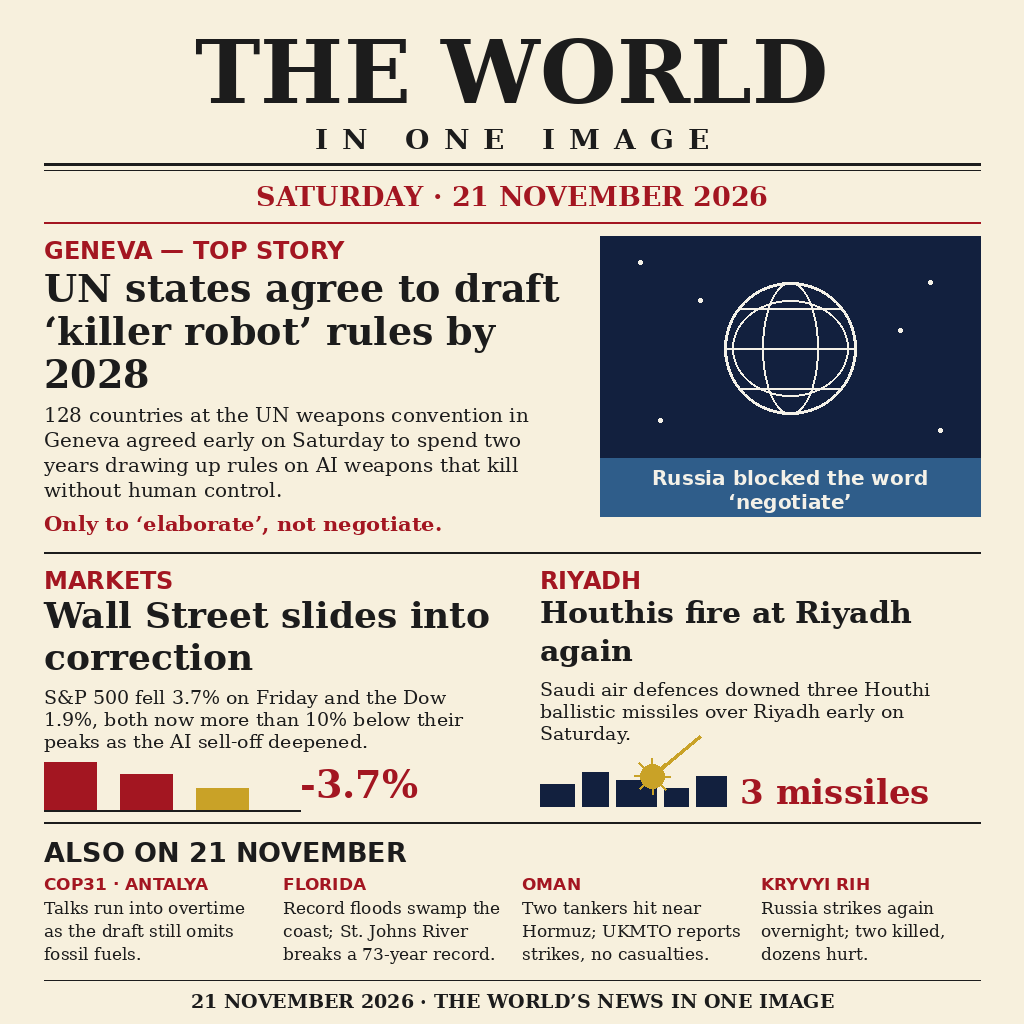
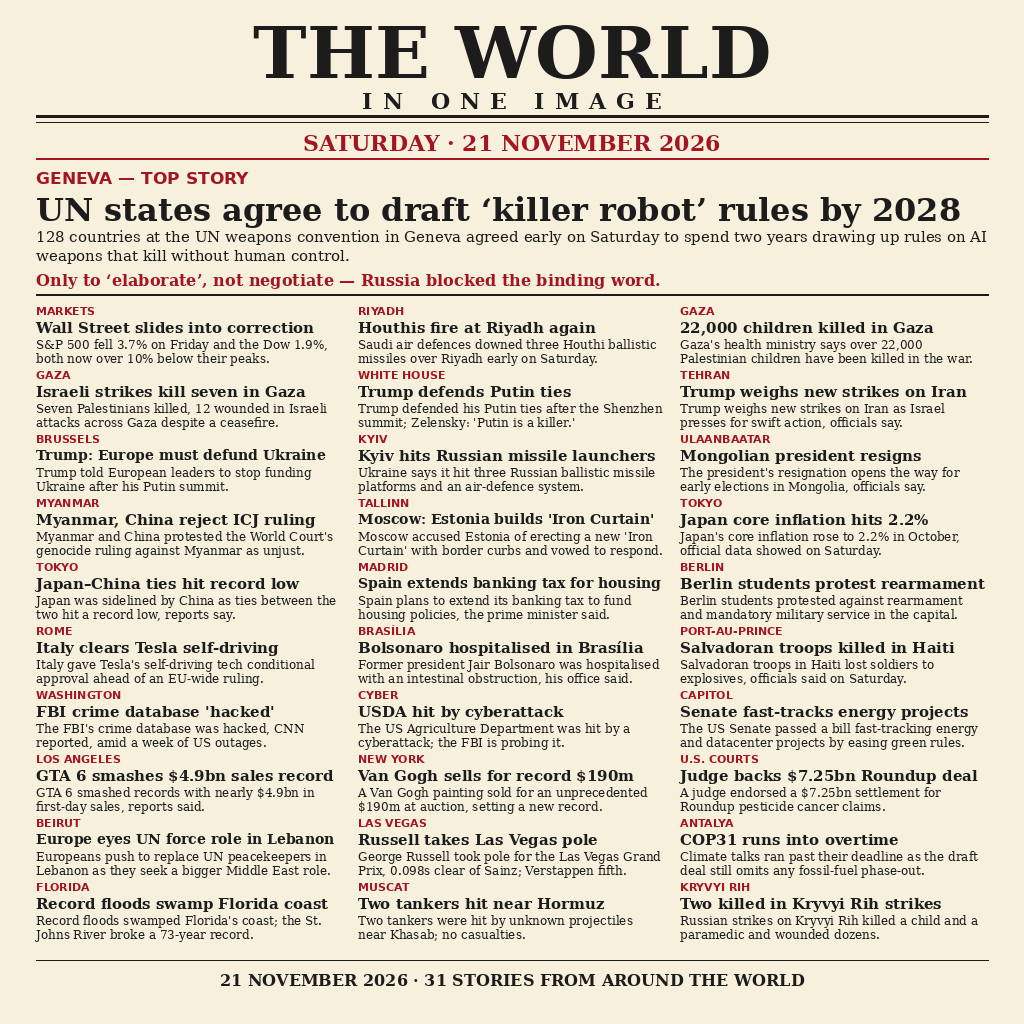
The World in One Image — 21 November 2026: 31 stories

diff --git a/make_image.py b/make_image.py
@@ -97,98 +97,142 @@ def _rule(draw, x0, y, x1, fill=INK, width=1):
     draw.line([(x0, y), (x1, y)], fill=fill, width=width)
 
 
+def _fit_headline(draw, text, width, start=15):
+    """Shrink a headline until it fits one line, else truncate with ellipsis."""
+    size = start
+    while size > 11:
+        font = serif_bold(size)
+        if draw.textlength(text, font=font) <= width:
+            return font, text
+        size -= 1
+    font = serif_bold(11)
+    while len(text) > 4 and draw.textlength(text + "…", font=font) > width:
+        text = text[:-1]
+    return font, text + "…"
+
+
+def _body_two_lines(draw, text, font, width, leading, x, y):
+    """Draw at most two wrapped lines; truncate the second with ellipsis."""
+    lines = _wrap(draw, text, font, width)
+    if len(lines) > 2:
+        lines = lines[:2]
+        while len(lines[1]) > 4 and draw.textlength(lines[1] + "…", font=font) > width:
+            lines[1] = lines[1][:-1]
+        lines[1] = lines[1] + "…"
+    for line in lines:
+        draw.text((x, y), line, font=font, fill=INK)
+        y += leading
+    return y
+
+
 def render(path):
     img = Image.new("RGB", (W, H), PAPER)
     d = ImageDraw.Draw(img)
 
     # ---- Masthead ----
-    d.text((512, 20), "THE WORLD", font=serif_bold(88), fill=INK, anchor="ma")
-    _tracked_centered(d, 512, 122, "IN ONE IMAGE", serif_bold(28), INK, 14)
-    _rule(d, 44, 164, 980, INK, 3)
-    _rule(d, 44, 170, 980, INK, 1)
-    d.text((512, 180), "SATURDAY \u00b7 21 NOVEMBER 2026", font=serif_bold(27), fill=RED, anchor="ma")
-    _rule(d, 44, 222, 980, RED, 2)
+    d.text((512, 10), "THE WORLD", font=serif_bold(72), fill=INK, anchor="ma")
+    _tracked_centered(d, 512, 88, "IN ONE IMAGE", serif_bold(22), INK, 10)
+    _rule(d, 36, 116, 988, INK, 3)
+    _rule(d, 36, 122, 988, INK, 1)
+    d.text((512, 130), "SATURDAY \u00b7 21 NOVEMBER 2026", font=serif_bold(22), fill=RED, anchor="ma")
+    _rule(d, 36, 158, 988, RED, 2)
 
     # ---- Lead: Geneva, killer robots ----
-    d.text((44, 236), "GENEVA \u2014 TOP STORY", font=sans_bold(24), fill=RED)
-    y = _lines(d, 44, 266, "UN states agree to draft \u2018killer robot\u2019 rules by 2028",
-               serif_bold(38), INK, 520, 43)
-    y = _lines(d, 44, y + 8,
+    d.text((36, 168), "GENEVA \u2014 TOP STORY", font=sans_bold(17), fill=RED)
+    hl_font, hl_text = _fit_headline(
+        d, "UN states agree to draft \u2018killer robot\u2019 rules by 2028", 952, start=32)
+    d.text((36, 190), hl_text, font=hl_font, fill=INK)
+    y = _lines(d, 36, 228,
                "128 countries at the UN weapons convention in Geneva agreed "
                "early on Saturday to spend two years drawing up rules on AI "
                "weapons that kill without human control.",
-               serif(20), INK, 520, 25)
-    d.text((44, y + 8), "Only to \u2018elaborate\u2019, not negotiate.", font=serif_bold(21), fill=RED)
+               serif(15), INK, 952, 19)
+    d.text((36, y + 4), "Only to \u2018elaborate\u2019, not negotiate \u2014 Russia blocked the binding word.",
+           font=serif_bold(16), fill=RED)
+    _rule(d, 36, y + 28, 988, INK, 2)
+    grid_top = y + 38
 
-    # ---- Lead panel: globe over Geneva ----
-    d.rectangle([600, 236, 980, 516], fill=NAVY)
-    cx, cy, r = 790, 348, 66
-    for sx, sy in [(640, 262), (700, 300), (930, 282), (900, 330), (660, 420), (940, 430)]:
-        d.ellipse([sx - 2, sy - 2, sx + 2, sy + 2], fill=LIGHT)
-    d.ellipse([cx - r, cy - r, cx + r, cy + r], outline=LIGHT, width=3)
-    d.ellipse([cx - 28, cy - r, cx + 28, cy + r], outline=LIGHT, width=2)
-    d.ellipse([cx - 58, cy - r + 18, cx + 58, cy + r - 18], outline=LIGHT, width=2)
-    d.line([(cx - r, cy), (cx + r, cy)], fill=LIGHT, width=2)
-    d.line([(cx - 52, cy - 40), (cx + 52, cy - 40)], fill=LIGHT, width=2)
-    d.line([(cx - 52, cy + 40), (cx + 52, cy + 40)], fill=LIGHT, width=2)
-    d.rectangle([600, 458, 980, 516], fill=STEEL)
-    d.text((790, 466), "Russia blocked the word", font=sans_bold(20), fill=LIGHT, anchor="ma")
-    d.text((790, 490), "\u2018negotiate\u2019", font=sans_bold(20), fill=LIGHT, anchor="ma")
-
-    _rule(d, 44, 552, 980, INK, 2)
-
-    # ---- Markets: Wall Street correction ----
-    d.text((44, 566), "MARKETS", font=sans_bold(24), fill=RED)
-    y = _lines(d, 44, 594, "Wall Street slides into correction",
-               serif_bold(36), INK, 456, 42)
-    y = _lines(d, 44, y + 8,
-               "S&P 500 fell 3.7% on Friday and the Dow 1.9%, both now "
-               "more than 10% below their peaks as the AI sell-off deepened.",
-               serif(19), INK, 456, 22)
-    base = 810
-    for i, h in enumerate((48, 36, 22)):
-        x0 = 44 + i * 76
-        d.rectangle([x0, base - h, x0 + 52, base], fill=RED if i < 2 else GOLD)
-    _rule(d, 44, base, 300, INK, 2)
-    d.text((300, 762), "-3.7%", font=serif_bold(38), fill=RED)
-
-    # ---- Riyadh: Houthi missiles intercepted ----
-    d.text((540, 566), "RIYADH", font=sans_bold(24), fill=RED)
-    y = _lines(d, 540, 594, "Houthis fire at Riyadh again",
-               serif_bold(30), INK, 440, 38)
-    y = _lines(d, 540, y + 8,
-               "Saudi air defences downed three Houthi ballistic missiles "
-               "over Riyadh early on Saturday.",
-               serif(19), INK, 440, 22)
-    # skyline silhouette
-    for x0, w, h in [(540, 34, 22), (582, 26, 34), (616, 40, 26), (664, 24, 18), (696, 30, 30)]:
-        d.rectangle([x0, 806 - h, x0 + w, 806], fill=NAVY)
-    # missile trail + interception burst
-    d.line([(700, 736), (652, 776)], fill=GOLD, width=3)
-    d.ellipse([640, 764, 664, 788], fill=GOLD)
-    for dx, dy in [(0, -18), (0, 18), (-18, 0), (18, 0),
-                   (-13, -13), (13, -13), (-13, 13), (13, 13)]:
-        d.line([(652, 776), (652 + dx, 776 + dy)], fill=GOLD, width=2)
-    d.text((740, 772), "3 missiles", font=serif_bold(34), fill=RED)
-
-    _rule(d, 44, 822, 980, INK, 2)
-
-    # ---- Also on 21 November ----
-    d.text((44, 836), "ALSO ON 21 NOVEMBER", font=sans_bold(27), fill=INK)
-    columns = [
-        ("COP31 \u00b7 ANTALYA", "Talks run into overtime as the draft still omits fossil fuels."),
-        ("FLORIDA", "Record floods swamp the coast; St. Johns River breaks a 73-year record."),
-        ("OMAN", "Two tankers hit near Hormuz; UKMTO reports strikes, no casualties."),
-        ("KRYVYI RIH", "Russia strikes again overnight; two killed, dozens hurt."),
+    # ---- 30 more stories, 3 columns x 10 rows ----
+    items = [
+        ("MARKETS", "Wall Street slides into correction",
+         "S&P 500 fell 3.7% on Friday and the Dow 1.9%, both now over 10% below their peaks."),
+        ("RIYADH", "Houthis fire at Riyadh again",
+         "Saudi air defences downed three Houthi ballistic missiles over Riyadh early on Saturday."),
+        ("GAZA", "22,000 children killed in Gaza",
+         "Gaza's health ministry says over 22,000 Palestinian children have been killed in the war."),
+        ("GAZA", "Israeli strikes kill seven in Gaza",
+         "Seven Palestinians killed, 12 wounded in Israeli attacks across Gaza despite a ceasefire."),
+        ("WHITE HOUSE", "Trump defends Putin ties",
+         "Trump defended his Putin ties after the Shenzhen summit; Zelensky: 'Putin is a killer.'"),
+        ("TEHRAN", "Trump weighs new strikes on Iran",
+         "Trump weighs new strikes on Iran as Israel presses for swift action, officials say."),
+        ("BRUSSELS", "Trump: Europe must defund Ukraine",
+         "Trump told European leaders to stop funding Ukraine after his Putin summit."),
+        ("KYIV", "Kyiv hits Russian missile launchers",
+         "Ukraine says it hit three Russian ballistic missile platforms and an air-defence system."),
+        ("ULAANBAATAR", "Mongolian president resigns",
+         "The president's resignation opens the way for early elections in Mongolia, officials say."),
+        ("MYANMAR", "Myanmar, China reject ICJ ruling",
+         "Myanmar and China protested the World Court's genocide ruling against Myanmar as unjust."),
+        ("TALLINN", "Moscow: Estonia builds 'Iron Curtain'",
+         "Moscow accused Estonia of erecting a new 'Iron Curtain' with border curbs and vowed to respond."),
+        ("TOKYO", "Japan core inflation hits 2.2%",
+         "Japan's core inflation rose to 2.2% in October, official data showed on Saturday."),
+        ("TOKYO", "Japan\u2013China ties hit record low",
+         "Japan was sidelined by China as ties between the two hit a record low, reports say."),
+        ("MADRID", "Spain extends banking tax for housing",
+         "Spain plans to extend its banking tax to fund housing policies, the prime minister said."),
+        ("BERLIN", "Berlin students protest rearmament",
+         "Berlin students protested against rearmament and mandatory military service in the capital."),
+        ("ROME", "Italy clears Tesla self-driving",
+         "Italy gave Tesla's self-driving tech conditional approval ahead of an EU-wide ruling."),
+        ("BRAS\u00cdLIA", "Bolsonaro hospitalised in Bras\u00edlia",
+         "Former president Jair Bolsonaro was hospitalised with an intestinal obstruction, his office said."),
+        ("PORT-AU-PRINCE", "Salvadoran troops killed in Haiti",
+         "Salvadoran troops in Haiti lost soldiers to explosives, officials said on Saturday."),
+        ("WASHINGTON", "FBI crime database 'hacked'",
+         "The FBI's crime database was hacked, CNN reported, amid a week of US outages."),
+        ("CYBER", "USDA hit by cyberattack",
+         "The US Agriculture Department was hit by a cyberattack; the FBI is probing it."),
+        ("CAPITOL", "Senate fast-tracks energy projects",
+         "The US Senate passed a bill fast-tracking energy and datacenter projects by easing green rules."),
+        ("LOS ANGELES", "GTA 6 smashes $4.9bn sales record",
+         "GTA 6 smashed records with nearly $4.9bn in first-day sales, reports said."),
+        ("NEW YORK", "Van Gogh sells for record $190m",
+         "A Van Gogh painting sold for an unprecedented $190m at auction, setting a new record."),
+        ("U.S. COURTS", "Judge backs $7.25bn Roundup deal",
+         "A judge endorsed a $7.25bn settlement for Roundup pesticide cancer claims."),
+        ("BEIRUT", "Europe eyes UN force role in Lebanon",
+         "Europeans push to replace UN peacekeepers in Lebanon as they seek a bigger Middle East role."),
+        ("LAS VEGAS", "Russell takes Las Vegas pole",
+         "George Russell took pole for the Las Vegas Grand Prix, 0.098s clear of Sainz; Verstappen fifth."),
+        ("ANTALYA", "COP31 runs into overtime",
+         "Climate talks ran past their deadline as the draft deal still omits any fossil-fuel phase-out."),
+        ("FLORIDA", "Record floods swamp Florida coast",
+         "Record floods swamped Florida's coast; the St. Johns River broke a 73-year record."),
+        ("MUSCAT", "Two tankers hit near Hormuz",
+         "Two tankers were hit by unknown projectiles near Khasab; no casualties."),
+        ("KRYVYI RIH", "Two killed in Kryvyi Rih strikes",
+         "Russian strikes on Kryvyi Rih killed a child and a paramedic and wounded dozens."),
     ]
-    for i, (kick, text) in enumerate(columns):
-        x = 44 + i * 239
-        d.text((x, 874), kick, font=sans_bold(17), fill=RED)
-        _lines(d, x, 898, text, serif(17), INK, 219, 23)
+    cols = 3
+    margin, gut = 36, 16
+    col_w = (W - 2 * margin - (cols - 1) * gut) // cols
+    grid_bottom = 950
+    row_h = (grid_bottom - grid_top) // 10
+    for idx, (kick, head, body) in enumerate(items):
+        r, c = divmod(idx, cols)
+        x = margin + c * (col_w + gut)
+        cy = grid_top + r * row_h
+        d.text((x, cy), kick, font=sans_bold(11), fill=RED)
+        hf, ht = _fit_headline(d, head, col_w, start=15)
+        d.text((x, cy + 14), ht, font=hf, fill=INK)
+        _body_two_lines(d, body, serif(12), col_w, 14, x, cy + 33)
 
-    _rule(d, 44, 980, 980, INK, 1)
-    d.text((512, 990), "21 NOVEMBER 2026 \u00b7 THE WORLD\u2019S NEWS IN ONE IMAGE",
-           font=serif_bold(19), fill=INK, anchor="ma")
+    # ---- Footer ----
+    _rule(d, 36, 960, 988, INK, 1)
+    d.text((512, 970), "21 NOVEMBER 2026 \u00b7 31 STORIES FROM AROUND THE WORLD",
+           font=serif_bold(16), fill=INK, anchor="ma")
 
     img.save(path, "PNG")
     return path
